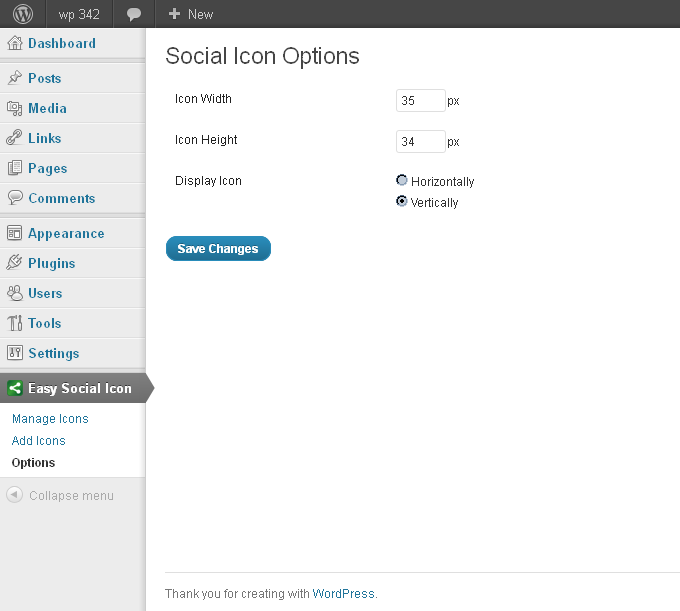
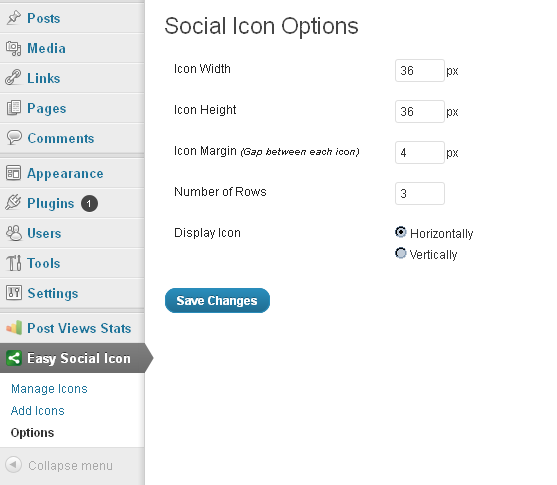
version 1.1 update
git-svn-id: https://plugins.svn.wordpress.org/easy-social-icons/trunk@642955 b8457f37-d9ea-0310-8a92-e5e31aec5664

diff --git a/easy-social-icons.php b/easy-social-icons.php
@@ -40,6 +40,7 @@ function register_cnss_settings() {
 	register_setting( 'cnss-settings-group', 'cnss-width' );
 	register_setting( 'cnss-settings-group', 'cnss-height' );
 	register_setting( 'cnss-settings-group', 'cnss-margin' );
+	register_setting( 'cnss-settings-group', 'cnss-row-count' );
 	register_setting( 'cnss-settings-group', 'cnss-vertical-horizontal' );
 }
 
@@ -48,6 +49,7 @@ function cnss_social_icon_option_fn() {
 	$cnss_width = get_option('cnss-width');
 	$cnss_height = get_option('cnss-height');
 	$cnss_margin = get_option('cnss-margin');
+	$cnss_rows = get_option('cnss-row-count');
 	$vorh = get_option('cnss-vertical-horizontal');
 	$vertical ='';
 	$horizontal ='';
@@ -71,14 +73,18 @@ function cnss_social_icon_option_fn() {
 			<th scope="row">Icon Margin <em><small>(Gap between each icon)</small></em></th>
 			<td><input type="text" name="cnss-margin" id="cnss-margin" class="small-text" value="<?php echo $cnss_margin?>" />px</td>
 			</tr>
+
+			<tr valign="top">
+			<th scope="row">Number of Rows</th>
+			<td><input type="text" name="cnss-row-count" id="cnss-row-count" class="small-text" value="<?php echo $cnss_rows?>" /></td>
+			</tr>
+			
 			<tr valign="top">
 			<th scope="row">Display Icon</th>
 			<td>
 				<input <?php echo $horizontal ?> type="radio" name="cnss-vertical-horizontal" id="horizontal" value="horizontal" />&nbsp;<label for="horizontal">Horizontally</label><br />
 				<input <?php echo $vertical ?> type="radio" name="cnss-vertical-horizontal" id="vertical" value="vertical" />&nbsp;<label for="vertical">Vertically</label></td>
 			</tr>
-			
-			
 		</table>
 		
 		<p class="submit">
@@ -112,6 +118,7 @@ function cnss_db_install () {
 	  add_option( 'cnss-width', '32');
 	  add_option( 'cnss-height', '32');
 	  add_option( 'cnss-margin', '4');
+	  add_option( 'cnss-row-count', '1');
 	  add_option( 'cnss-vertical-horizontal', 'horizontal');
    }
 }
@@ -503,6 +510,7 @@ function cn_social_icon() {
 	$cnss_width = get_option('cnss-width');
 	$cnss_height = get_option('cnss-height');
 	$cnss_margin = get_option('cnss-margin');
+	$cnss_rows = get_option('cnss-row-count');
 	$vorh = get_option('cnss-vertical-horizontal');
 
 	$upload_dir = wp_upload_dir(); 
@@ -513,24 +521,33 @@ function cn_social_icon() {
 	$video_info = $wpdb->get_results($sql);
 	$icon_count = count($video_info);
 	
+	$_collectionSize = count($video_info);
+	$_rowCount = $cnss_rows ? $cnss_rows : 1;
+	$_columnCount = ceil($_collectionSize/$_rowCount);
+	
 	if($vorh=='vertical')
 		$table_width = $cnss_width;
 	else
-		$table_width = $icon_count*($cnss_width+$cnss_margin);
+		$table_width = $_columnCount*($cnss_width+$cnss_margin);
+		//$table_width = $icon_count*($cnss_width+$cnss_margin);
 	
 	$td_width = $cnss_width+$cnss_margin;
 		
 	ob_start();
 	echo '<table class="cnss-social-icon" style="width:'.$table_width.'px" border="0" cellspacing="0" cellpadding="0">';
-	echo $vorh=='horizontal'?'<tr>':'';
+	//echo $vorh=='horizontal'?'<tr>':'';
+	$i=0;
 	foreach($video_info as $icon)
 	{ 
-	echo $vorh=='vertical'?'<tr>':'';
 	$image_url = $image_file_path.'/'.$icon->image_url;
+	echo $vorh=='vertical'?'<tr>':'';
+	if($i++%$_columnCount==0 && $vorh!='vertical' )echo '<tr>';
 	?><td style="width:<?php echo $td_width ?>px"><a <?php echo ($icon->target==1)?'target="_blank"':'' ?> title="<?php echo $icon->title ?>" href="<?php echo $icon->url ?>"><img src="<?php echo $image_url?>" border="0" width="<?php echo $cnss_width ?>" height="<?php echo $cnss_height ?>" /></a></td><?php 
+	if ( ($i%$_columnCount==0 || $i==$_collectionSize) && $vorh!='vertical' )echo '</tr>';
 	echo $vorh=='vertical'?'</tr>':'';
+	//$i++;
 	}
-	echo $vorh=='horizontal'?'</tr>':'';
+	//echo $vorh=='horizontal'?'</tr>':'';
 	echo '</table>';
 	$out = ob_get_contents();
 	ob_end_clean();
